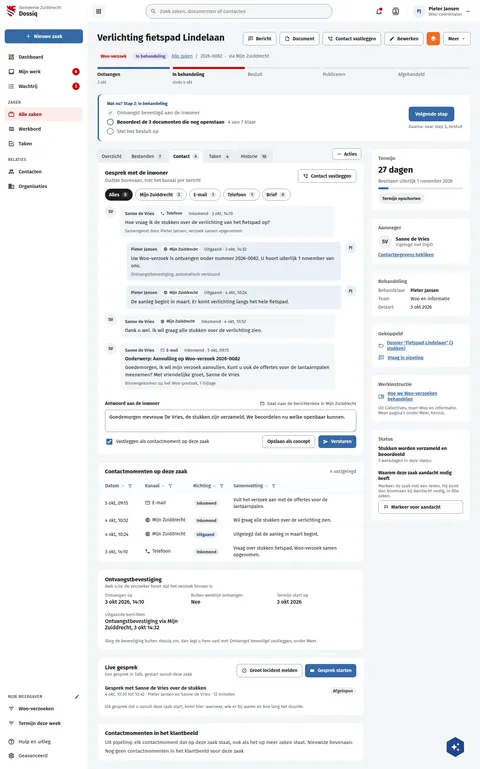
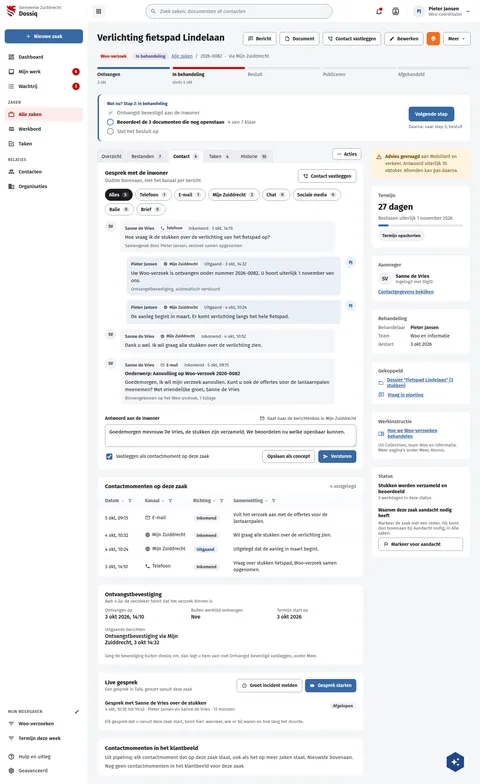
fix(screens): DqZaakContact draws every channel and the advice notice
The conversation's chips are every configured channel with its count, 0
included (coordinator decision 24 Oct; Brief added as a channel), in the
page's order. The side column opens with "Advies gevraagd", as every other
board of this case draws it.

Assisted-by: ClaudeCode:claude-opus-5-5

diff --git a/preview/screens/boards/DqZaakContact.html b/preview/screens/boards/DqZaakContact.html
@@ -237,11 +237,17 @@ a{color:var(--sc-primary, #3669a5)}a:hover{color:var(--sc-primary-deep, #234a78)
                 
                   <button type="button" aria-pressed="true" style="display: flex; align-items: center; gap: 8px; height: 36px; padding: 0 12px; border-radius: 18px; font: 600 14px var(--sc-font, 'Fira Sans'), sans-serif; border: 0; background: var(--sc-work-ink, #1b1c1d); color: #ffffff;">Alles<span style="padding: 1px 7px; border-radius: 10px; font-size: 12px; background: var(--sc-work-text, #3d4047); color: #ffffff;">5</span></button>
                 
-                  <button type="button" aria-pressed="false" style="display: flex; align-items: center; gap: 8px; height: 36px; padding: 0 12px; border-radius: 18px; font: 600 14px var(--sc-font, 'Fira Sans'), sans-serif; border: 1px solid var(--sc-work-field, #828a95); background: #ffffff; color: var(--sc-work-ink, #1b1c1d);">Mijn Zuiddrecht<span style="padding: 1px 7px; border-radius: 10px; font-size: 12px; background: var(--sc-work-line, #e4e6ea); color: var(--sc-work-text, #3d4047);">3</span></button>
+                  <button type="button" aria-pressed="false" style="display: flex; align-items: center; gap: 8px; height: 36px; padding: 0 12px; border-radius: 18px; font: 600 14px var(--sc-font, 'Fira Sans'), sans-serif; border: 1px solid var(--sc-work-field, #828a95); background: #ffffff; color: var(--sc-work-ink, #1b1c1d);">Telefoon<span style="padding: 1px 7px; border-radius: 10px; font-size: 12px; background: var(--sc-work-line, #e4e6ea); color: var(--sc-work-text, #3d4047);">1</span></button>
                 
                   <button type="button" aria-pressed="false" style="display: flex; align-items: center; gap: 8px; height: 36px; padding: 0 12px; border-radius: 18px; font: 600 14px var(--sc-font, 'Fira Sans'), sans-serif; border: 1px solid var(--sc-work-field, #828a95); background: #ffffff; color: var(--sc-work-ink, #1b1c1d);">E-mail<span style="padding: 1px 7px; border-radius: 10px; font-size: 12px; background: var(--sc-work-line, #e4e6ea); color: var(--sc-work-text, #3d4047);">1</span></button>
                 
-                  <button type="button" aria-pressed="false" style="display: flex; align-items: center; gap: 8px; height: 36px; padding: 0 12px; border-radius: 18px; font: 600 14px var(--sc-font, 'Fira Sans'), sans-serif; border: 1px solid var(--sc-work-field, #828a95); background: #ffffff; color: var(--sc-work-ink, #1b1c1d);">Telefoon<span style="padding: 1px 7px; border-radius: 10px; font-size: 12px; background: var(--sc-work-line, #e4e6ea); color: var(--sc-work-text, #3d4047);">1</span></button>
+                  <button type="button" aria-pressed="false" style="display: flex; align-items: center; gap: 8px; height: 36px; padding: 0 12px; border-radius: 18px; font: 600 14px var(--sc-font, 'Fira Sans'), sans-serif; border: 1px solid var(--sc-work-field, #828a95); background: #ffffff; color: var(--sc-work-ink, #1b1c1d);">Mijn Zuiddrecht<span style="padding: 1px 7px; border-radius: 10px; font-size: 12px; background: var(--sc-work-line, #e4e6ea); color: var(--sc-work-text, #3d4047);">3</span></button>
+                
+                  <button type="button" aria-pressed="false" style="display: flex; align-items: center; gap: 8px; height: 36px; padding: 0 12px; border-radius: 18px; font: 600 14px var(--sc-font, 'Fira Sans'), sans-serif; border: 1px solid var(--sc-work-field, #828a95); background: #ffffff; color: var(--sc-work-ink, #1b1c1d);">Chat<span style="padding: 1px 7px; border-radius: 10px; font-size: 12px; background: var(--sc-work-line, #e4e6ea); color: var(--sc-work-text, #3d4047);">0</span></button>
+                
+                  <button type="button" aria-pressed="false" style="display: flex; align-items: center; gap: 8px; height: 36px; padding: 0 12px; border-radius: 18px; font: 600 14px var(--sc-font, 'Fira Sans'), sans-serif; border: 1px solid var(--sc-work-field, #828a95); background: #ffffff; color: var(--sc-work-ink, #1b1c1d);">Sociale media<span style="padding: 1px 7px; border-radius: 10px; font-size: 12px; background: var(--sc-work-line, #e4e6ea); color: var(--sc-work-text, #3d4047);">0</span></button>
+                
+                  <button type="button" aria-pressed="false" style="display: flex; align-items: center; gap: 8px; height: 36px; padding: 0 12px; border-radius: 18px; font: 600 14px var(--sc-font, 'Fira Sans'), sans-serif; border: 1px solid var(--sc-work-field, #828a95); background: #ffffff; color: var(--sc-work-ink, #1b1c1d);">Balie<span style="padding: 1px 7px; border-radius: 10px; font-size: 12px; background: var(--sc-work-line, #e4e6ea); color: var(--sc-work-text, #3d4047);">0</span></button>
                 
                   <button type="button" aria-pressed="false" style="display: flex; align-items: center; gap: 8px; height: 36px; padding: 0 12px; border-radius: 18px; font: 600 14px var(--sc-font, 'Fira Sans'), sans-serif; border: 1px solid var(--sc-work-field, #828a95); background: #ffffff; color: var(--sc-work-ink, #1b1c1d);">Brief<span style="padding: 1px 7px; border-radius: 10px; font-size: 12px; background: var(--sc-work-line, #e4e6ea); color: var(--sc-work-text, #3d4047);">0</span></button>
                 
@@ -358,6 +364,7 @@ a{color:var(--sc-primary, #3669a5)}a:hover{color:var(--sc-primary-deep, #234a78)
           </div>
 
           <aside style="flex: 1 1 300px; min-width: 0; display: flex; flex-direction: column; gap: 20px">
+            <section aria-label="Melding op de zaak" style="display: flex; gap: 10px; align-items: flex-start; padding: 14px 16px; border-radius: 12px; background: #fff4de; color: #7a4f00; font-size: 14px; line-height: 1.5"><svg width="18" height="18" viewbox="0 0 24 24" fill="currentColor" style="flex: none; margin-top: 2px"><path d="M12,2L1,21H23M12,6L19.53,19H4.47M11,10V14H13V10M11,16V18H13V16"></path></svg><span><strong>Advies gevraagd</strong> aan Mobiliteit en verkeer. Antwoord uiterlijk 10 oktober. Afronden kan pas daarna.</span></section>
             <section style="background: #ffffff; border: 1px solid var(--sc-work-line, #e4e6ea); border-radius: 12px; padding: 20px 22px; display: flex; flex-direction: column; gap: 10px">
               <h2 style="margin: 0; font-size: 15px; font-weight: 600; color: var(--sc-work-muted, #5e6168)">Termijn</h2>
               <strong style="font-size: 26px; font-weight: 700">27 dagen</strong>

diff --git a/screens-src/zuiddrecht/DqZaakContact.dc.html b/screens-src/zuiddrecht/DqZaakContact.dc.html
@@ -139,6 +139,7 @@ a{color:#3669a5}a:hover{color:#234a78}
           </div>
 
           <aside style="flex: 1 1 300px; min-width: 0; display: flex; flex-direction: column; gap: 20px">
+            <section aria-label="Melding op de zaak" style="display: flex; gap: 10px; align-items: flex-start; padding: 14px 16px; border-radius: 12px; background: #fff4de; color: #7a4f00; font-size: 14px; line-height: 1.5"><svg width="18" height="18" viewBox="0 0 24 24" fill="currentColor" style="flex: none; margin-top: 2px"><path d="M12,2L1,21H23M12,6L19.53,19H4.47M11,10V14H13V10M11,16V18H13V16"></path></svg><span><strong>Advies gevraagd</strong> aan Mobiliteit en verkeer. Antwoord uiterlijk 10 oktober. Afronden kan pas daarna.</span></section>
             <section style="background: #ffffff; border: 1px solid #e4e6ea; border-radius: 12px; padding: 20px 22px; display: flex; flex-direction: column; gap: 10px">
               <h2 style="margin: 0; font-size: 15px; font-weight: 600; color: #5e6168">Termijn</h2>
               <strong style="font-size: 26px; font-weight: 700">27 dagen</strong>
@@ -220,7 +221,7 @@ class Component extends DCLogic {
     ].map(([when, ch, channel, out, summary]) => ({ when, channel, summary, icon: ICON[ch], dir: out ? 'Uitgaand' : 'Inkomend', dirStyle: dirS(out) }));
     const chip = (on) => 'display: flex; align-items: center; gap: 8px; height: 36px; padding: 0 12px; border-radius: 18px; font: 600 14px \'Fira Sans\', sans-serif; ' + (on ? 'border: 0; background: #1b1c1d; color: #ffffff;' : 'border: 1px solid #828a95; background: #ffffff; color: #1b1c1d;');
     const cnt = (on) => 'padding: 1px 7px; border-radius: 10px; font-size: 12px; ' + (on ? 'background: #3d4047; color: #ffffff;' : 'background: #e4e6ea; color: #3d4047;');
-    const kinds = [['Alles', 5, true], ['Mijn Zuiddrecht', 3, false], ['E-mail', 1, false], ['Telefoon', 1, false], ['Brief', 0, false]].map(([label, count, on]) => ({ label, count, pressed: on ? 'true' : 'false', style: chip(on), countStyle: cnt(on) }));
+    const kinds = [['Alles', 5, true], ['Telefoon', 1, false], ['E-mail', 1, false], ['Mijn Zuiddrecht', 3, false], ['Chat', 0, false], ['Sociale media', 0, false], ['Balie', 0, false], ['Brief', 0, false]].map(([label, count, on]) => ({ label, count, pressed: on ? 'true' : 'false', style: chip(on), countStyle: cnt(on) }));
     return { steps, tabs: withCounts(tabs), msgs, moments, kinds };
   }
 }
